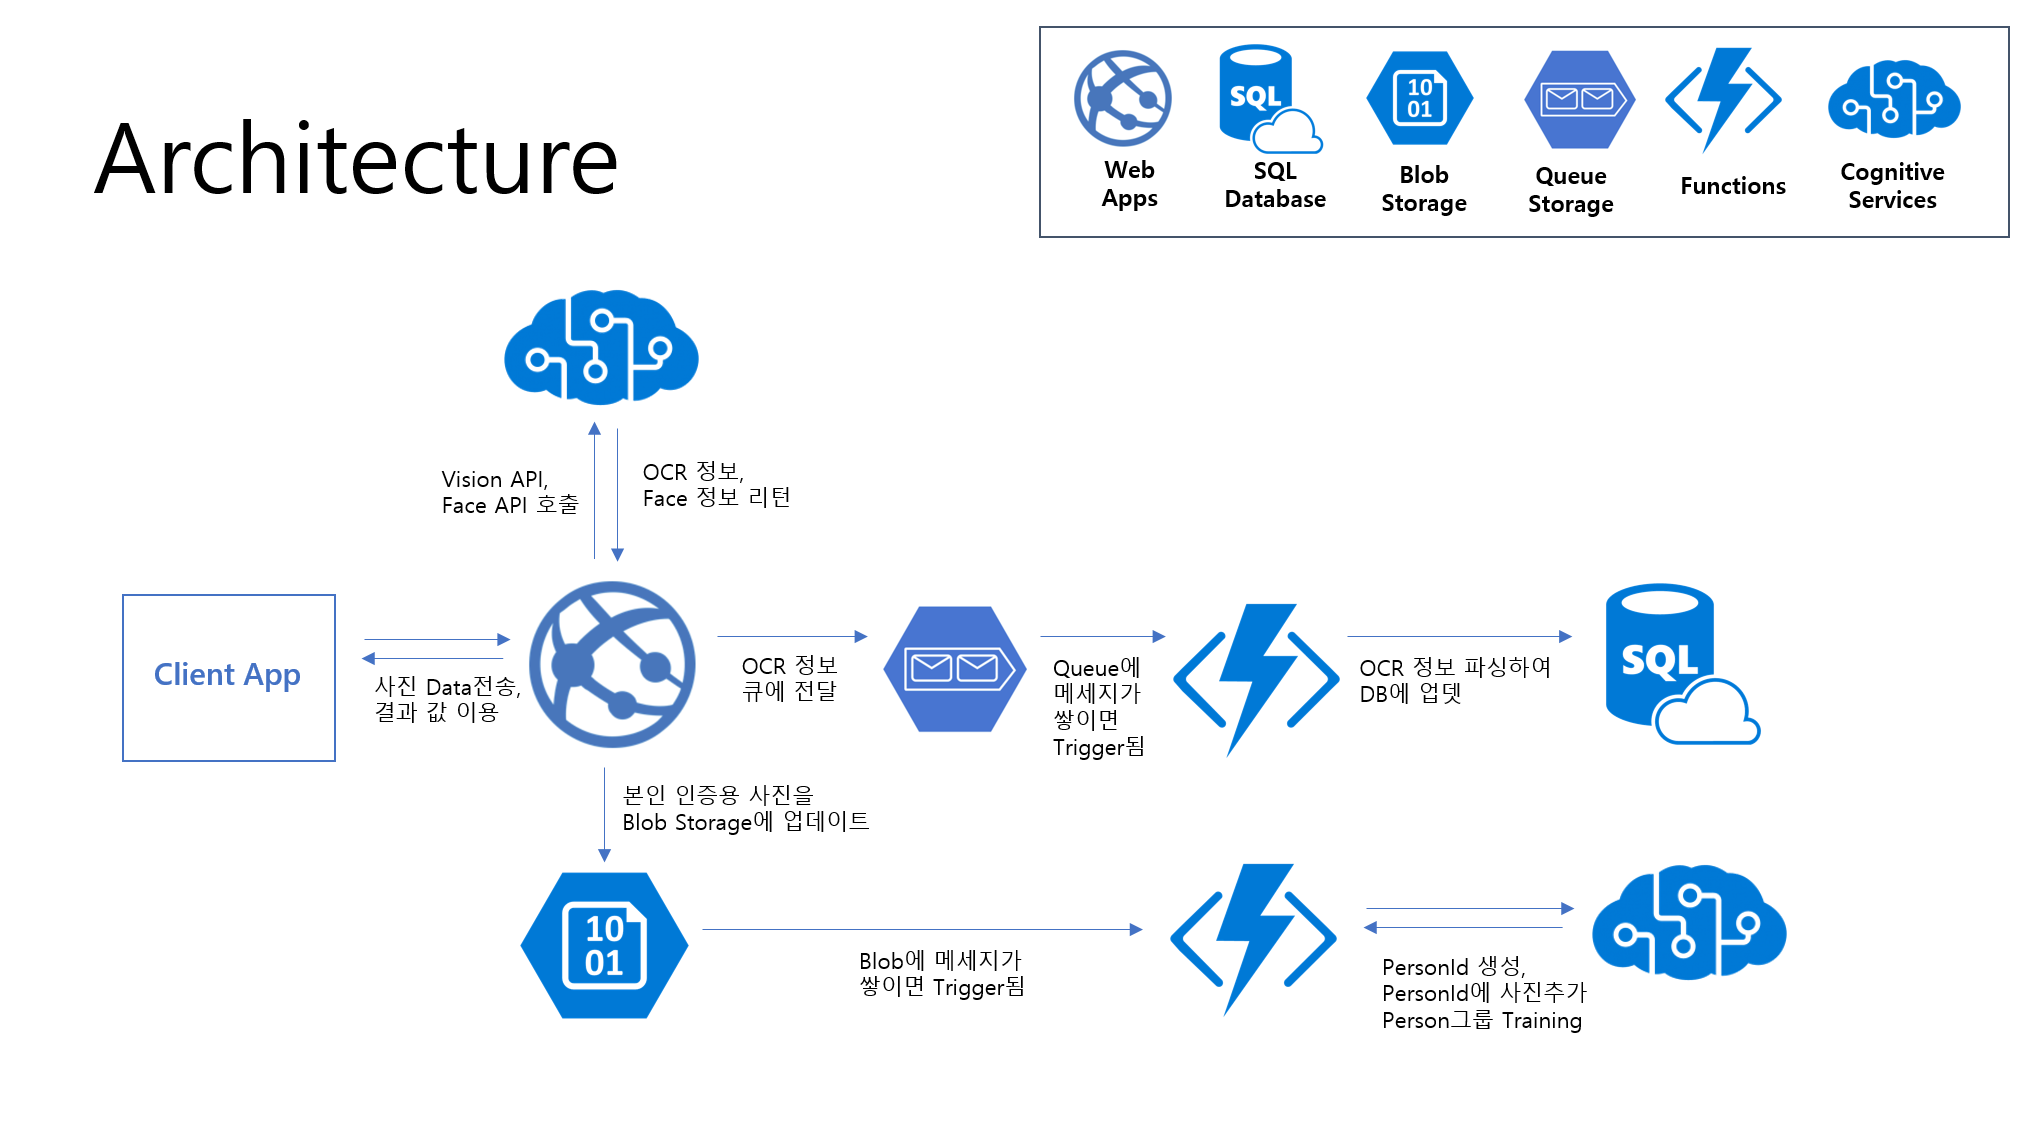
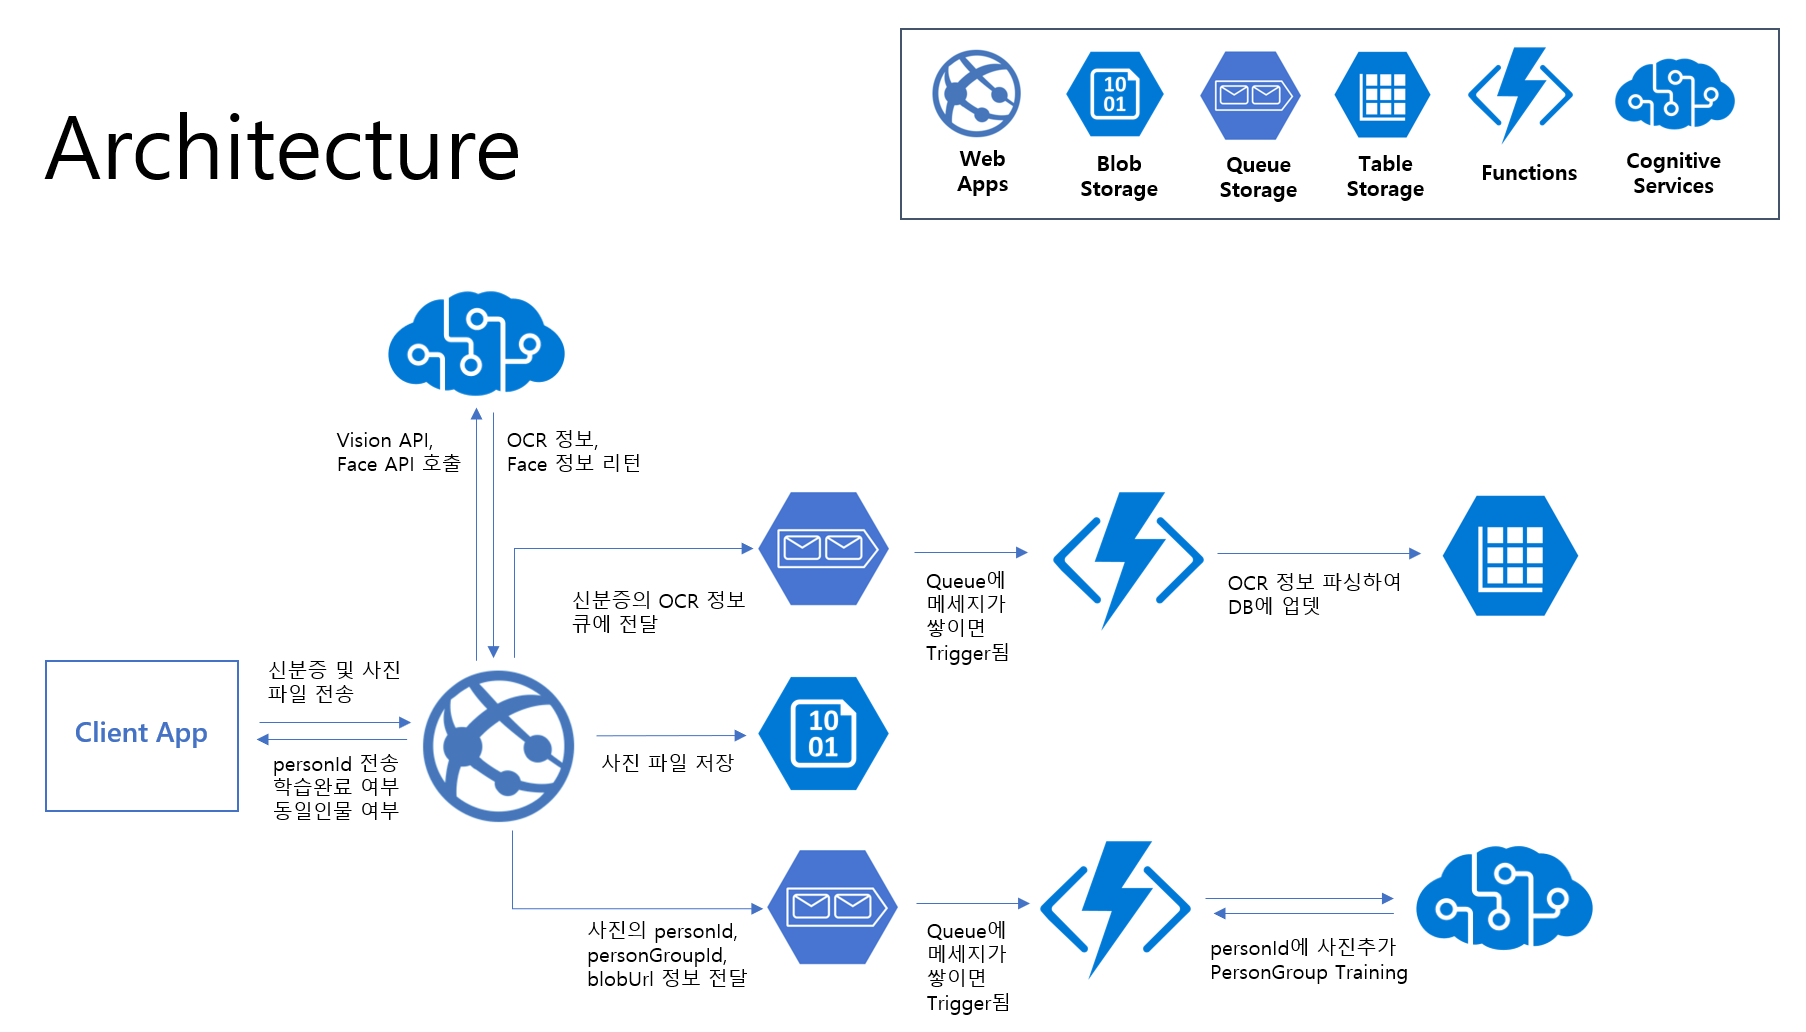
update readme and add function

diff --git a/FunctionApp1/FunctionApp1/BindingTable.cs b/FunctionApp1/FunctionApp1/BindingTable.cs
@@ -1,0 +1,50 @@
+using System;
+using Microsoft.Azure.WebJobs;
+using Microsoft.Azure.WebJobs.Host;
+using Newtonsoft.Json;
+
+namespace FunctionApp1
+{
+    public static class BindingTable
+    {
+        [FunctionName("BindingTableEunk")]
+        public static void Run2([QueueTrigger("ocr-test", Connection = "BlobConnection")]string myQueueItem, [Table("test", Connection = "TableConnection")]ICollector<Ocr> tableBinding, TraceWriter log)
+        {
+            log.Info($"C# Queue trigger function processed: {myQueueItem}");
+            var jsontext = myQueueItem;
+            string ocrResult = "";
+            Microsoft.ProjectOxford.Vision.Contract.OcrResults o = JsonConvert.DeserializeObject<Microsoft.ProjectOxford.Vision.Contract.OcrResults>(jsontext);
+            foreach (var a in o.Regions)
+            {
+                foreach (var line in a.Lines)
+                {
+                    foreach (var word in line.Words)
+                    {
+                        log.Info(word.Text);
+                        ocrResult = ocrResult + word.Text + " ";
+                    }
+                }
+            }
+
+            Guid guid = Guid.NewGuid();
+            
+            tableBinding.Add(new Ocr()
+            {
+                PartitionKey = guid.ToString(),
+                RowKey = "1",
+                OcrResult = ocrResult
+            });
+
+
+            log.Info(ocrResult);
+        }
+
+
+        public class Ocr
+        {
+            public string PartitionKey { get; set; }
+            public string RowKey { get; set; }
+            public string OcrResult { get; set; }
+        }
+    }
+}
